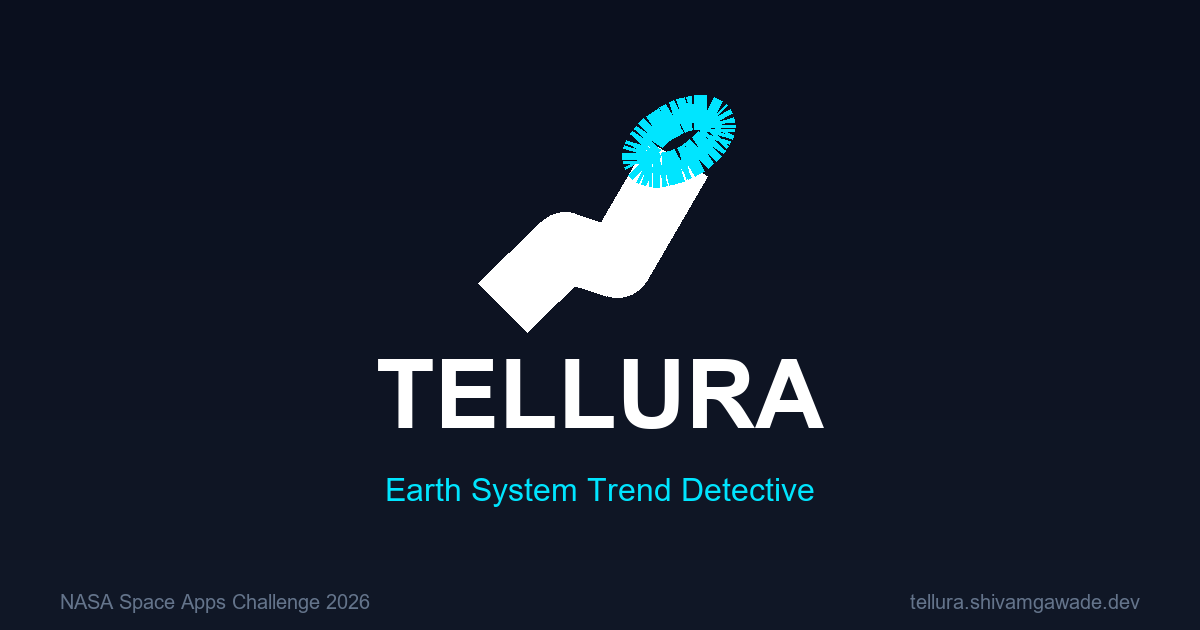
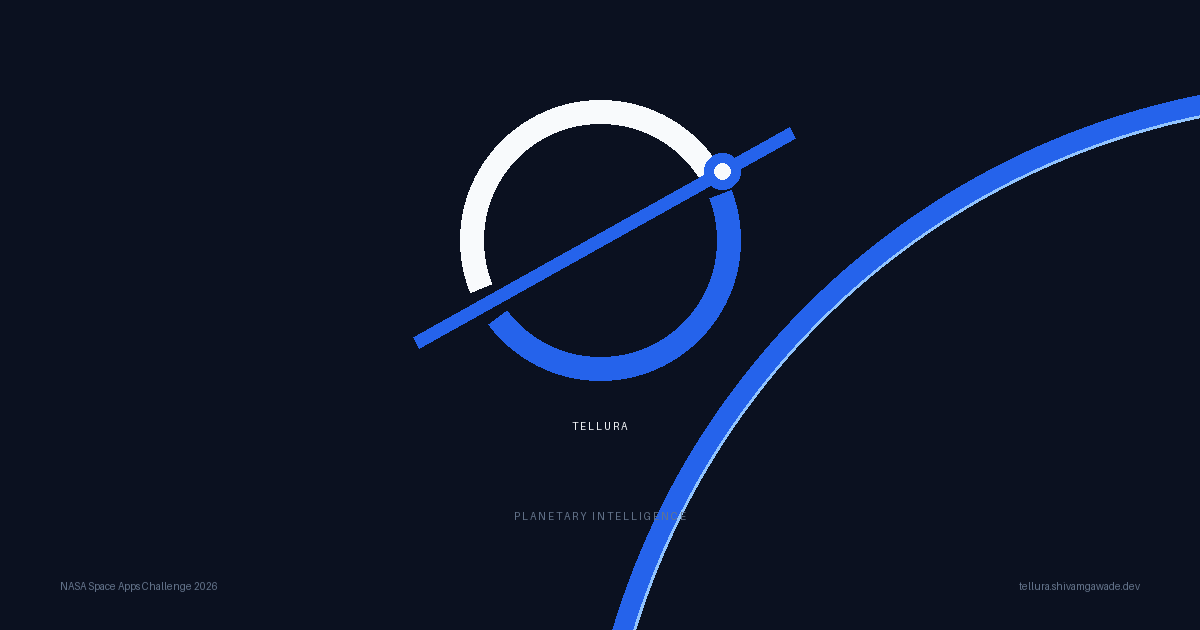
feat(brand): deploy official Tellura Planetary Intelligence brand identity
- Deployed official Orbit Signal vector symbol (#F8FAFC & #2563EB)
- Generated pixel-perfect favicon suite (SVG, ICO, 16x16, 32x32)
- Generated PWA launcher icons (180x180, 192x192, 512x512)
- Created 1200x630 social card (og-image.png) with planetary limb
- Updated Header & Footer with 'Planetary Intelligence' tagline
- Set Deep Orbit (#0B1120) theme across manifest.json
- Added docs/BRANDING.md specification guide
- Verified 337/337 tests passing and clean Vite build

Changed region(s): [[0.3083, 0.1508, 1.0, 1.0], [0.0308, 0.9048, 0.3083, 0.9651], [0.74, 0.9048, 0.9558, 0.9651]]

diff --git a/frontend-react/src/components/Footer.jsx b/frontend-react/src/components/Footer.jsx
@@ -15,7 +15,7 @@ export default function Footer() {
           <div className="flex items-center gap-2.5">
             <img
               src="/favicon.svg"
-              alt="Tellura Earth System Trend Detective icon"
+              alt="Tellura Planetary Intelligence icon"
               className="w-5 h-5 rounded object-contain shrink-0"
               width="20"
               height="20"
@@ -24,7 +24,7 @@ export default function Footer() {
               Tellura
             </span>
             <span className="text-[10px] font-mono text-[var(--color-text-muted)] tracking-wider">
-              Earth System Trend Instrument
+              Planetary Intelligence
             </span>
           </div>
           <p className="text-[var(--color-text-muted)] text-[11px] leading-relaxed">

diff --git a/frontend-react/src/components/Header.jsx b/frontend-react/src/components/Header.jsx
@@ -97,7 +97,7 @@ export default function Header() {
           >
             <img
               src="/favicon.svg"
-              alt="Tellura Earth System Trend Detective brand mark"
+              alt="Tellura Planetary Intelligence brand mark"
               className="w-7 h-7 rounded object-contain shadow-xs shrink-0"
               width="28"
               height="28"
@@ -107,7 +107,7 @@ export default function Header() {
                 Tellura
               </span>
               <span className="text-[9px] font-mono tracking-wider text-[var(--color-text-muted)] hidden sm:inline-block">
-                Atmospheric Trend Analysis
+                Planetary Intelligence
               </span>
             </div>
           </Link>

diff --git a/docs/BRANDING.md b/docs/BRANDING.md
@@ -1,0 +1,74 @@
+# Tellura — Brand Identity & Visual Guidelines
+
+Official brand guidelines for **Tellura — Planetary Intelligence** (NASA Space Apps Challenge 2026).
+
+---
+
+## 1. Visual Identity Philosophy
+
+Tellura pairs mathematical rigor with planetary observation aesthetics. The identity communicates:
+1. **Planetary Scale**: Observation across 44 years of continuous NASA satellite and reanalysis data.
+2. **Signal Detection**: Extracting genuine, statistically defensible trend signals out of high-entropy noise.
+3. **Institutional Authority**: Precision typography, unembellished geometry, and scientific clarity.
+
+---
+
+## 2. Core Symbol: The Orbit Signal
+
+The Tellura symbol consists of three integrated elements:
+- **Planetary Orbit Ring**: A dual-arc circle divided along the signal trajectory.
+  - **Upper Arc**: Atmosphere White (`#F8FAFC`) representing atmospheric observational layers.
+  - **Lower Arc**: Signal Blue (`#2563EB`) representing the oceanic and terrestrial Earth surface.
+- **Signal Vector**: An ascending diagonal vector (`-29.2°`) slicing through the focal center, representing upward statistical trend detection.
+- **Orbital Node**: A satellite telemetry node positioned at the upper-right intersection of the ring and vector.
+
+---
+
+## 3. Official Color Palette
+
+| Token | Hex | RGB | Application |
+| :--- | :--- | :--- | :--- |
+| **Deep Orbit** | `#0B1120` | `11, 17, 32` | Application canvas, terminal backgrounds, primary dark ground |
+| **Signal Blue** | `#2563EB` | `37, 99, 235` | Active data vectors, signal highlights, interactive focus states |
+| **Atmosphere White** | `#F8FAFC` | `248, 250, 252` | Primary brand wordmark, high-contrast headings, upper planetary arc |
+| **Telemetry Slate** | `#64748B` | `100, 116, 139` | Subtitles, scientific metadata, gridlines, axis labels |
+| **Orbital Border** | `#1E293B` | `30, 41, 59` | Bounding cards, divider rules, subtle structural geometry |
+
+---
+
+## 4. Typography
+
+### Primary Wordmark
+- **Glyph Style**: Custom architectural geometry
+- **Glyphs**:
+  - `T`: Flat horizontal lintel with centered vertical stem
+  - `E`: Three isolated horizontal strata bars (`≡`)
+  - `L / L`: Orthogonal base arms with generous tracking
+  - `U`: Uniform radius trough
+  - `R`: Clean loop and anchored diagonal leg
+  - `A`: High-apex chevron (`⋀`) without crossbar
+
+### Official Tagline
+```
+PLANETARY INTELLIGENCE
+```
+- **Typeface**: Montserrat / Space Grotesk / Inter
+- **Tracking**: `0.25em` (Wide tracking)
+- **Weight**: 400 (Regular)
+- **Casing**: All Caps
+
+---
+
+## 5. Asset Directory
+
+| Asset | Path | Format & Dimension |
+| :--- | :--- | :--- |
+| Vector Symbol | `frontend-react/public/favicon.svg` | Scalable Vector Graphic |
+| Multi-res Favicon | `frontend-react/public/favicon.ico` | 16x16, 32x32, 48x48 Multi-res ICO |
+| Small Browser Tab | `frontend-react/public/favicon-16x16.png` | 16×16 px PNG |
+| Standard Browser Tab | `frontend-react/public/favicon-32x32.png` | 32×32 px PNG |
+| iOS Web App | `frontend-react/public/apple-touch-icon.png` | 180×180 px PNG |
+| PWA Launcher | `frontend-react/public/android-chrome-192x192.png` | 192×192 px PNG |
+| PWA Splash | `frontend-react/public/android-chrome-512x512.png` | 512×512 px PNG |
+| Open Graph Preview | `frontend-react/public/og-image.png` | 1200×630 px Social Media Card |
+
